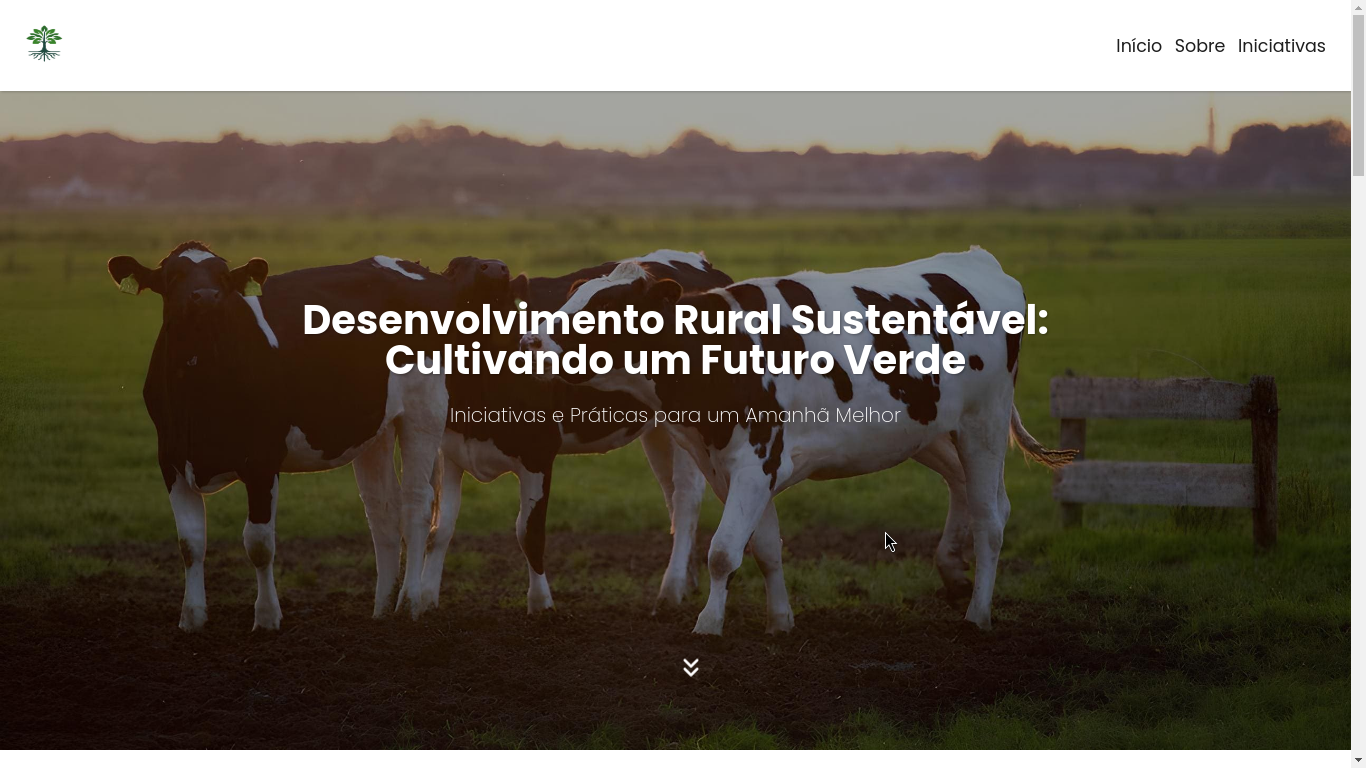
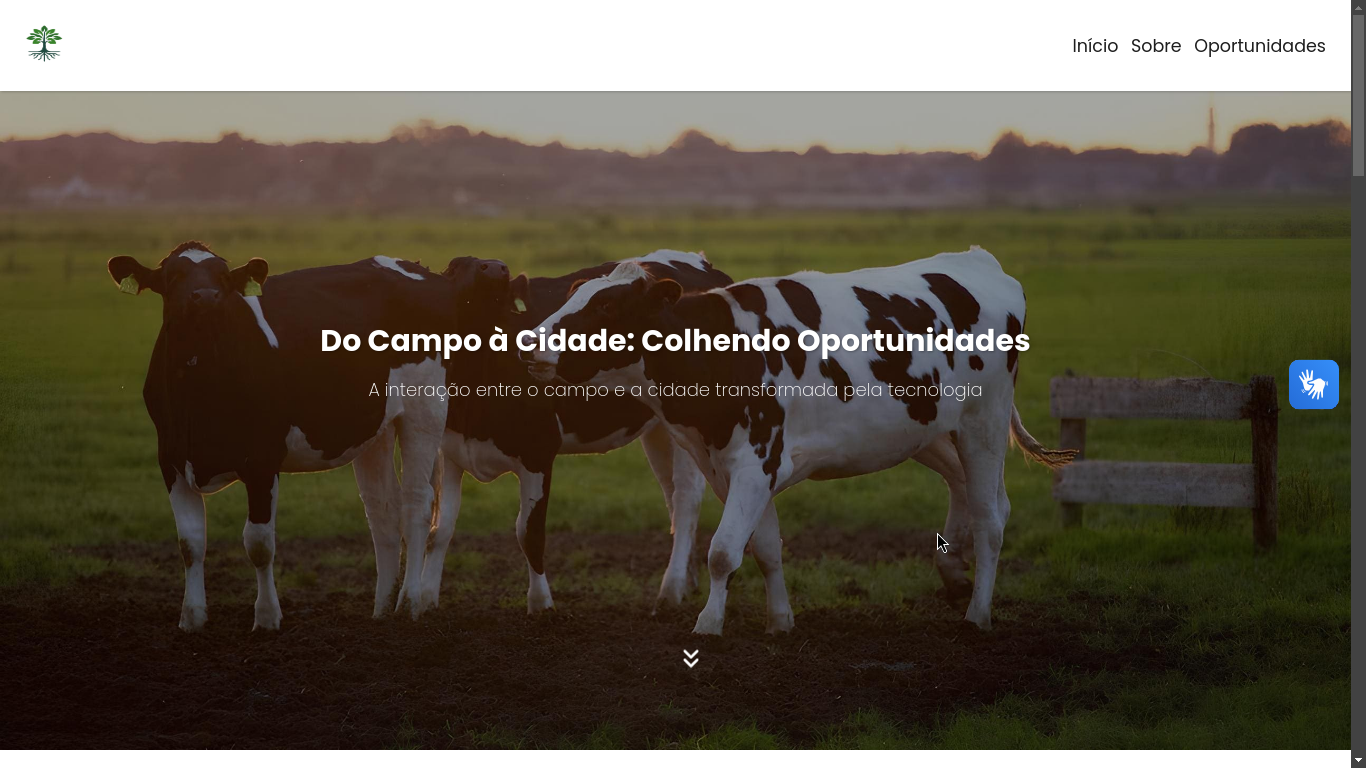
docs: update readme

diff --git a/README.md b/README.md
@@ -1,5 +1,10 @@
 # AGRINHO
 <img src="screenshot.png" alt="screenshot" />
 
-## Links
+## Ferramentas e sites utilzados
+- [vlibras](https://www.gov.br/governodigital/pt-br/acessibilidade-e-usuario/vlibras)
+- [pexels](https://www.pexels.com/pt-br/)
+- [Bing Image Creator](https://www.bing.com/images/create)
+
+## Deploy
 - [github pages](https://k4ik.github.io/agrinho-2024)
